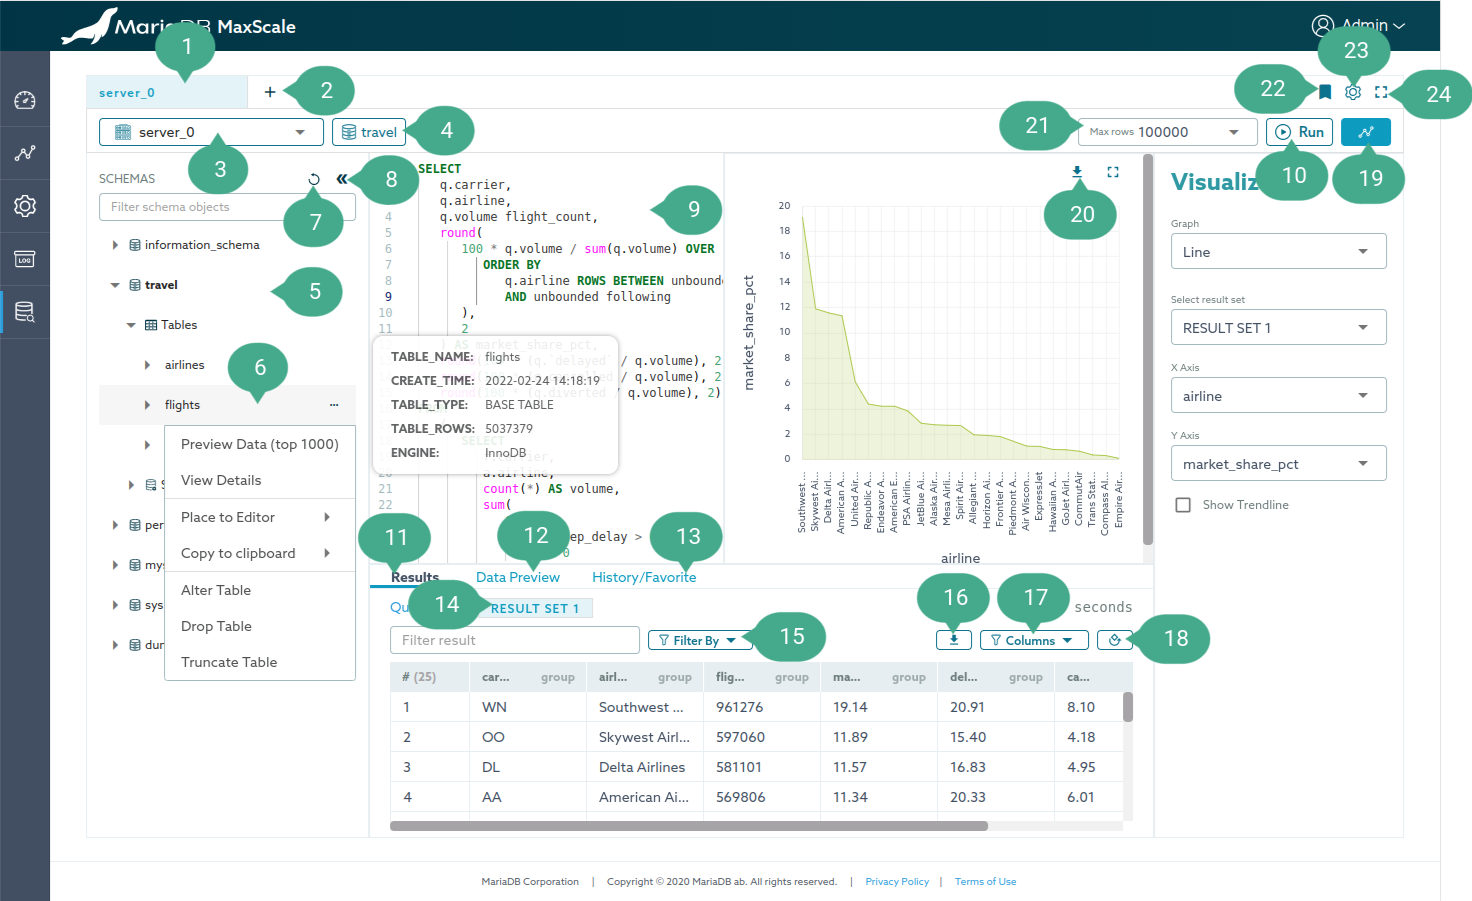
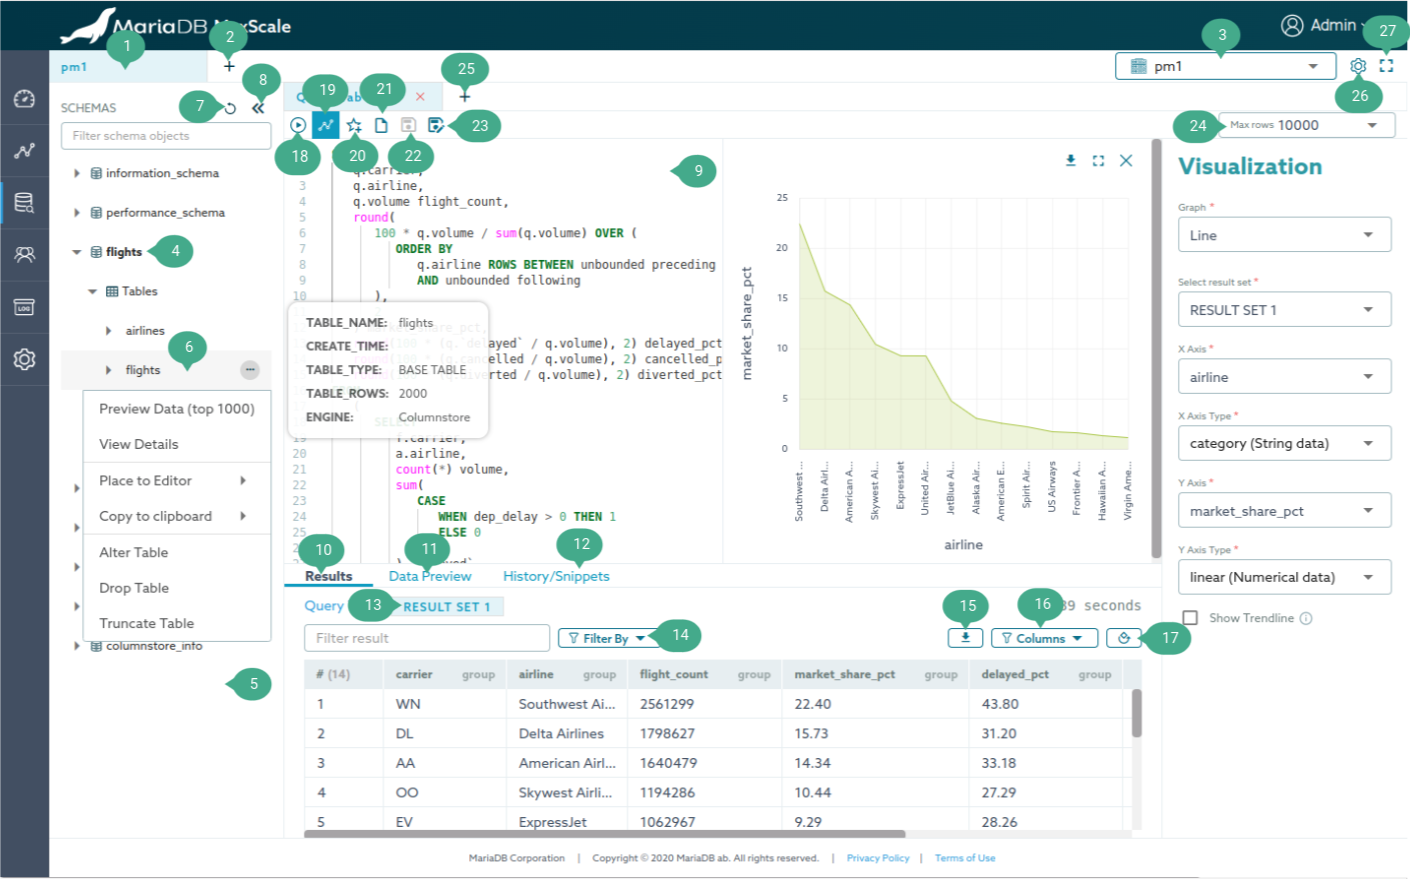
MXS-3723 Update MaxGUI tutorial
The design was updated with new buttons, so the documentation
should be updated.

diff --git a/Documentation/Tutorials/Using-MaxGUI-Tutorial.md b/Documentation/Tutorials/Using-MaxGUI-Tutorial.md
@@ -177,8 +177,8 @@ A SQL editor tool to run queries and perform other SQL operations.
     connection can be created by selecting the last option in the dropdown
     labeled as `New connection`. Once a connection is created, it automatically
     binds the connection to the current active worksheet.
-4.  Active database dropdown. Allowing to quickly change the default (current)
-    database.
+4.  Active database dropdown. Right-click on the database name and click
+    `Use database` option to quickly change the default (current) database
 5.  Schemas sidebar. Showing available schemas on the current connection. As
     shown in the figure above, these items can be explored to show tables,
     stored procedures, columns, and triggers within the schema.
@@ -205,38 +205,40 @@ A SQL editor tool to run queries and perform other SQL operations.
     when the cursor is active on the `SQL editor` with an exception for the
     `Run all statements`, `Run selected statements` and
     `Save statements to favorite` commands.
-10. Run button. Running the queries written in the `SQL editor`. Alternatively,
-    pressing `Ctrl/CMD+Shift+Enter` to `Run all statements` or `Ctrl/CMD+Enter`
-    to `Run selected statements`.
-11. Query Results. Showing the query results of queries written in the SQL
+10. Query Results. Showing the query results of queries written in the SQL
     editor.
-12. Data Preview. Showing the query results of `Preview Data (top 1000)` and
+11. Data Preview. Showing the query results of `Preview Data (top 1000)` and
     `View Details` options of the schema sidebar context menu.
-13. History/Favorite. Showing query history and favorite queries.
-14. Result tab navigation. Navigating between SQL queries results.
-15. Filter query history logs. The query history is divided into two types of
+12. History/Snippets. Showing query history and snippet queries.
+13. Result tab navigation. Navigating between SQL queries results.
+14. Filter query history logs. The query history is divided into two types of
     logs The `User query logs` contains logs for queries written in the
     `SQL editor` while the `Action logs` contains logs for auto-generated SQL,
     such as `Preview Data (top 1000)`, `View Details`, `Drop Table` and
     `Truncate Table`.
-16. Export query result button. Exporting as `json`, `csv` with a custom
+15. Export query result button. Exporting as `json`, `csv` with a custom
     delimiter.
-17. Filter query result columns dropdown. Selecting columns to be visible.
-18. Vertical query result button. Switching to vertical mode.
+16. Filter query result columns dropdown. Selecting columns to be visible.
+17. Vertical query result button. Switching to vertical mode.
+18. Run button. Running the queries written in the `SQL editor`. Alternatively,
+    pressing `Ctrl/CMD+Shift+Enter` to `Run all statements` or `Ctrl/CMD+Enter`
+    to `Run selected statements`.
 19. Visualize query result button. Visualizing a query result into a line,
     scatter, vertical bar, and horizontal bar graph.
-20. Export graph as a jpeg file.
-21. [sql_select_limit](https://mariadb.com/docs/reference/mdb/system-variables/sql_select_limit/)
+20. Create a query snippet from the queries written in the
+    `SQL editor`. Alternatively, press `Ctrl/CMD+D`.
+21. Open Script button.
+22. Save Script button. This writes content into the opened file. This only works on Chrome or any browsers based on Chromium.
+23. Save Script As button. Save the content as a new file.
+24. [sql_select_limit](https://mariadb.com/docs/reference/mdb/system-variables/sql_select_limit/)
     input. Changing the maximum number of rows to return from SELECT statements.
-22. Save SQL queries to the favorite button. Saving queries written in the
-    `SQL editor`. Alternatively, press `Ctrl/CMD+S`.
-23. Query Editor settings button. Open `Query configuration` dialog to change
+25. Add a new session button.
+26. Query Editor settings button. Open `Query configuration` dialog to change
     the value of `Max rows` (sql_select_limit),
     `Query history retention period (in days)`,
     `Show confirmation before executing the statements` and
     `Show system schemas`.
-24. Maximize Query Editor window.
-
+27. Maximize Query Editor window.
 # How to kill a session
 
 A session can be killed easily on the "Current Sessions" table which can be
